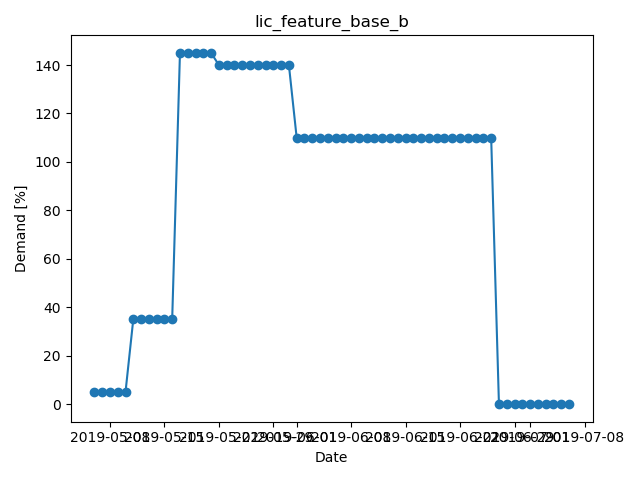
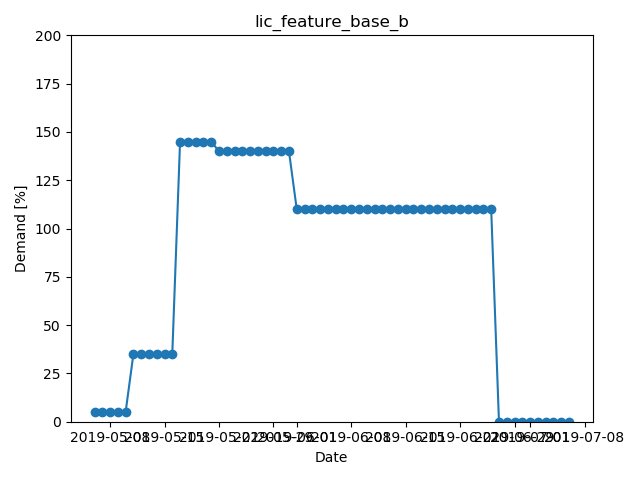
Update analysis.html(display all figures with for loop).

diff --git a/demand_manager/templates/demand_manager/demand_analysis.html b/demand_manager/templates/demand_manager/demand_analysis.html
@@ -10,7 +10,9 @@
     <div>
         <h2>Demand Analysis</h2>
         {% load static %}
-        <img src="{% static 'demand_manager/PNG/lic_feature_base_a.png' %}">
+        {% for index, png_path in ser_png_path.iteritems %}
+            <img src="{% static png_path %}" title="{{ index }}">
+        {% endfor %}
 
         <!--
         <div>

diff --git a/demand_manager/utils/demand_summary.py b/demand_manager/utils/demand_summary.py
@@ -1,9 +1,10 @@
-from datetime import date
-import re
-import pandas as pd
-import numpy as np
 import os
 import os.path
+from datetime import date
+import re
+import math
+import pandas as pd
+import numpy as np
 import matplotlib.pyplot as plt
 
 from django_pandas.io import read_frame
@@ -36,6 +37,14 @@ class DemandFeature:
         self.list_date = pd.date_range(start=self.start_date, end=self.end_date, freq='D')
         # Create Initial DataFrame of Feature
         self.df_demand_feature = pd.DataFrame(index=self.list_date, columns=self.list_feature)
+
+        # Setup PNG dir
+        self.png_static_dir = "demand_manager/PNG/"
+        self.png_dir = "demand_manager/static/" + self.png_static_dir
+
+        # PNG Dictionary
+        self.list_png = []
+        self.ser_png_path = pd.Series()
 
     def demand_summary(self):
 
@@ -73,14 +82,15 @@ class DemandFeature:
             self.df_demand_feature = self.df_demand_feature.add(df_product, fill_value=0)
 
     def create_demand_figure(self):
-        # Setup PNG dir
-        png_dir = "demand_manager/static/demand_manager/PNG/"
-        if not os.path.isdir(png_dir):
-            os.makedirs(png_dir)
+        if not os.path.isdir(self.png_dir):
+            os.makedirs(self.png_dir)
         for lic_feature in self.df_demand_feature.columns:
-            self.create_demand_date_png(lic_feature, png_dir)
+            self.create_demand_date_png(lic_feature)
 
-    def create_demand_date_png(self, lic_feature, png_dir):
+        # Series of PNG path
+        self.ser_png_path = pd.Series(self.list_png, index=self.df_demand_feature.columns)
+
+    def create_demand_date_png(self, lic_feature):
         # Setup PNG name
         png_name = lic_feature + ".png"
 
@@ -98,12 +108,16 @@ class DemandFeature:
         # label
         ax.set_xlabel('Date')
         ax.set_ylabel('Demand [%]')
-        # plt.ylim([0,])
+        ylim_max = max(y.max() * 1.1, math.ceil(y.max() / 100) * 100, y.max() + 50)
+        plt.ylim([0, ylim_max])
 
         # Title
         ax.set_title(lic_feature)
 
         # Save as PNG
         fig.tight_layout()
-        plt.savefig(png_dir + png_name)
+        plt.savefig(self.png_dir + png_name)
+
+        # Add PNG list
+        self.list_png.append(self.png_static_dir + png_name)
 

diff --git a/demand_manager/views.py b/demand_manager/views.py
@@ -87,7 +87,7 @@ class DemandAnalysisVeiw(LoginRequiredMixin, ListView):
         # Calc Demand Feature
         demand_feature = DemandFeature()
         demand_feature.demand_summary()
-        df_demand_feature = demand_feature.df_demand_feature
-        context['df_demand_feature'] = df_demand_feature
+        context['df_demand_feature'] = demand_feature.df_demand_feature
+        context['ser_png_path'] = demand_feature.ser_png_path
         return context
 
